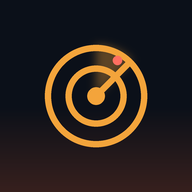
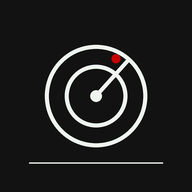
Add files via upload

Changed region(s): [[0.2188, 0.2188, 0.7812, 0.7812], [0.0, 0.8125, 1.0, 1.0]]

diff --git a/index.html b/index.html
@@ -4,7 +4,7 @@
 <meta charset="utf-8">
 <meta name="viewport" content="width=device-width, initial-scale=1, viewport-fit=cover">
 <title>Shoot Radar</title>
-<meta name="theme-color" content="#0b1019">
+<meta name="theme-color" content="#121212">
 <link rel="manifest" href="manifest.webmanifest">
 <link rel="apple-touch-icon" href="icons/apple-touch-icon.png">
 <link rel="icon" type="image/png" sizes="192x192" href="icons/icon-192.png">
@@ -14,23 +14,28 @@
 <meta name="apple-mobile-web-app-status-bar-style" content="black-translucent">
 <meta name="format-detection" content="telephone=no">
 <link rel="preconnect" href="https://fonts.googleapis.com">
-<link rel="stylesheet" href="https://fonts.googleapis.com/css2?family=Bricolage+Grotesque:opsz,wght@12..96,500;12..96,700&family=Instrument+Sans:wght@400;500;600&family=JetBrains+Mono:wght@400;600&display=swap">
+<link rel="stylesheet" href="https://fonts.googleapis.com/css2?family=Inter:wght@300;400;500;600&family=Anonymous+Pro:wght@400;700&display=swap">
 <style>
-/* Layout: one column (desktop) or four tabs (phone / installed app) on a night-sky ground; dialogs for editing. */
+/* Theme: matches tysonwaldron.com. Photo-led, near-black #121212 ground, pale green-white #EFF5EF type,
+   Inter at regular weight, grey pill buttons, 10px image corners, brand red #C70000 for the strongest scores.
+   Layout: one column (desktop) or four tabs (phone / installed app); dialogs for editing. */
 :root {
-  --bg: #0b1019; --surface: #121a27; --surface-2: #1a2434; --line: #243045;
-  --ink: #e9edf4; --muted: #8d99ad; --accent: #f3a43b; --accent-ink: #1b1204;
-  --hot: #ff6f61; --good: #f3a43b; --maybe: #6f8fc9; --low: #3a465b; --ok: #4fc29b; --bad: #ff6f61;
-  --display: 'Bricolage Grotesque', 'Segoe UI', system-ui, sans-serif;
-  --body: 'Instrument Sans', system-ui, -apple-system, 'Segoe UI', sans-serif;
-  --mono: 'JetBrains Mono', ui-monospace, 'SF Mono', Menlo, monospace;
+  --bg: #121212; --surface: #1a1a1a; --surface-2: #242524; --line: #2e302e;
+  --ink: #eff5ef; --muted: #9da59d; --accent: #eff5ef; --accent-ink: #061406;
+  --pill: #ababab; --pill-ink: #061406;
+  --hot: #c70000; --good: #d6a24a; --maybe: #5f6f80; --low: #2c2e2c; --ok: #7fc79a; --bad: #ff5a4f;
+  --hdr: #121212; --hdr-ink: #eff5ef;
+  --display: 'Inter', -apple-system, 'Segoe UI', system-ui, sans-serif;
+  --body: 'Inter', -apple-system, 'Segoe UI', system-ui, sans-serif;
+  --mono: 'Anonymous Pro', ui-monospace, 'SF Mono', Menlo, monospace;
   color-scheme: dark;
 }
 @media (prefers-color-scheme: light) {
   :root:not([data-theme="dark"]) {
-    --bg: #f3f5f8; --surface: #ffffff; --surface-2: #eef1f6; --line: #d9dfe8;
-    --ink: #121923; --muted: #5b6678; --accent: #c87a12; --accent-ink: #ffffff;
-    --hot: #d94a3d; --good: #c87a12; --maybe: #4767a6; --low: #c3cbd8; --ok: #1f8f6a; --bad: #d94a3d; color-scheme: light;
+    --bg: #ffffff; --surface: #f5f7f5; --surface-2: #eaeeea; --line: #dde3dd;
+    --ink: #061406; --muted: #5a645a; --accent: #061406; --accent-ink: #ffffff;
+    --pill: #ababab; --pill-ink: #061406;
+    --hot: #c70000; --good: #b07a1c; --maybe: #56677a; --low: #dfe4df; --ok: #2f7d4f; --bad: #c70000; color-scheme: light;
   }
 }
 * { box-sizing: border-box; }
@@ -224,7 +229,7 @@ body.tabbed .savebar { bottom: calc(60px + env(safe-area-inset-bottom, 0px)); pa
 body.tabbed .toast { bottom: calc(140px + env(safe-area-inset-bottom, 0px)); }
 body.tabbed .stamp { order: 3; width: 100%; }
 @media (display-mode: standalone) and (prefers-color-scheme: light) {
-  header.top::before { content: ''; position: absolute; left: 0; right: 0; top: 0; height: env(safe-area-inset-top, 0px); background: #0b1019; }
+  header.top::before { content: ''; position: absolute; left: 0; right: 0; top: 0; height: env(safe-area-inset-top, 0px); background: var(--hdr); }
   header.top { position: sticky; }
 }
 @media (display-mode: standalone) { body { overscroll-behavior-y: none; } }
@@ -249,6 +254,62 @@ body.tabbed .stamp { order: 3; width: 100%; }
   .stamp { width: 100%; order: 3; }
 }
 @media (prefers-reduced-motion: reduce) { * { transition: none !important; } }
+/* ---------- tysonwaldron.com theme ---------- */
+body { font: 400 15px/1.55 var(--body); letter-spacing: -0.005em; }
+header.top { background: var(--hdr); color: var(--hdr-ink); border-bottom-color: rgba(239, 245, 239, .08); backdrop-filter: none; }
+header.top button { color: var(--hdr-ink); border-color: rgba(239, 245, 239, .22); background: transparent; }
+header.top .stamp { color: rgba(239, 245, 239, .62); }
+.brand { gap: 12px; font: 400 13px var(--body); }
+.brand .sig { height: 34px; width: auto; display: block; }
+.brand .app-name { text-transform: uppercase; letter-spacing: .28em; font-size: 11px; color: rgba(239, 245, 239, .7); padding-left: 12px; border-left: 1px solid rgba(239, 245, 239, .25); }
+.progress { background: var(--hdr-ink); }
+h2 { font: 400 26px/1.15 var(--display); letter-spacing: -0.02em; }
+.sec-head p, .note { font-size: 13.5px; }
+button, .btn { font: 400 14px var(--body); border-radius: 37px; padding: 9px 18px; }
+button.primary { background: var(--pill); color: var(--pill-ink); border-color: var(--pill); }
+button.primary:hover { filter: brightness(1.08); }
+.score { font: 700 13px var(--mono); border-radius: 37px; padding: 3px 9px; }
+.s-good { color: #1a1206; }
+.alert, .locard, .logrow, .grid-scroll, details.fold, .step, .cond-row, .install { border-radius: 10px; }
+.alert .cond svg, .locard .ico-row svg, .detail-list svg, .cond-top svg, .logrow .thumb, button.cover-ph svg { color: var(--ink); }
+.alert .cond { font-weight: 500; }
+.alert .loc, .locard .name { font: 400 18px/1.3 var(--display); letter-spacing: -0.01em; }
+.alert .when, .stamp, .coords, .radar thead th { font-family: var(--mono); }
+.radar thead th { letter-spacing: .14em; }
+.chip { border-radius: 37px; }
+.pip { border-radius: 37px; padding: 2px 8px 2px 5px; }
+.pip.s-hot { background: color-mix(in srgb, var(--hot) 30%, transparent); }
+.cover, .alert .banner img, .photo-edit img, .radar .who img, .logrow img.thumb { border-radius: 10px; }
+.locard .cover { border-radius: 10px 10px 0 0; }
+.alert .banner img { border-radius: 0; }
+.switch input:checked + span { background: var(--ink); }
+.switch input:checked + span::after { background: var(--bg); }
+.tabbar button.active { color: var(--ink); }
+.tabbar button { color: color-mix(in srgb, var(--ink) 45%, transparent); font-weight: 500; letter-spacing: .02em; }
+.install { background: var(--surface); border-color: var(--line); }
+.eyebrow { text-transform: uppercase; letter-spacing: .28em; font-size: 12px; }
+details.fold > summary h2 { font-size: 22px; }
+.badge { font-family: var(--mono); font-weight: 700; border-radius: 37px; background: var(--hot); color: #fff; }
+.badge.muted { background: transparent; }
+.toast { border-radius: 37px; }
+/* hero: full-bleed photo like the homepage */
+.hero { position: relative; height: clamp(230px, 42vw, 380px); overflow: hidden; background: #121212; color: #eff5ef; }
+.hero img { position: absolute; inset: 0; width: 100%; height: 100%; max-width: none; object-fit: cover; object-position: center 60%; }
+.hero::after { content: ''; position: absolute; inset: 0; background: linear-gradient(to bottom, rgba(18, 18, 18, .15) 0%, rgba(18, 18, 18, .1) 40%, rgba(18, 18, 18, .85) 100%); }
+.hero-text { position: absolute; left: 0; right: 0; bottom: 0; z-index: 1; padding-block: 0 22px; display: grid; gap: 6px; }
+.hero-h { font: 300 clamp(28px, 6vw, 46px)/1.05 var(--display); letter-spacing: -0.03em; text-wrap: balance; }
+.hero-sub { font: 400 13px var(--mono); color: rgba(239, 245, 239, .8); letter-spacing: .02em; }
+.hero-sub { display: flex; flex-wrap: wrap; gap: 2px 14px; } .hero-sub span { white-space: nowrap; }
+body.tabbed .hero:not(.active) { display: none; }
+.hbtn svg { width: 17px; height: 17px; }
+@media (max-width: 600px) {
+  .brand .sig { height: 28px; } .brand .app-name { letter-spacing: .2em; font-size: 10px; padding-left: 10px; }
+  header .wrap { gap: 8px; padding-block: 10px; }
+  .hbtn { padding: 0; width: 40px; height: 40px; justify-content: center; }
+  .hbtn span { display: none; }
+  .stamp { width: 100%; order: 3; font-size: 11.5px; }
+  .hero-sub { font-size: 12px; }
+}
 </style>
 </head>
 <body>
@@ -269,19 +330,30 @@ body.tabbed .stamp { order: 3; width: 100%; }
     <symbol id="i-log" viewBox="0 0 24 24" fill="none" stroke="currentColor" stroke-width="1.8" stroke-linecap="round" stroke-linejoin="round"><rect x="4" y="3" width="16" height="18" rx="2.5"/><path d="M8 8h8M8 12h8M8 16h5"/></symbol>
     <symbol id="i-pin" viewBox="0 0 24 24" fill="none" stroke="currentColor" stroke-width="1.8" stroke-linecap="round" stroke-linejoin="round"><path d="M12 21s-6.5-5.6-6.5-11a6.5 6.5 0 0 1 13 0c0 5.4-6.5 11-6.5 11Z"/><circle cx="12" cy="10" r="2.4"/></symbol>
     <symbol id="i-today" viewBox="0 0 24 24" fill="none" stroke="currentColor" stroke-width="1.8" stroke-linecap="round" stroke-linejoin="round"><path d="M12 3v2M5.6 5.6l1.4 1.4M3 12h2M19 12h2M17 7l1.4-1.4"/><path d="M7.5 15a4.5 4.5 0 0 1 9 0"/><path d="M3 19h18"/></symbol>
+    <symbol id="i-refresh" viewBox="0 0 24 24" fill="none" stroke="currentColor" stroke-width="1.8" stroke-linecap="round" stroke-linejoin="round"><path d="M20 11a8 8 0 1 0-2.3 5.7"/><path d="M20 4v7h-7"/></symbol>
+    <symbol id="i-gear" viewBox="0 0 24 24" fill="none" stroke="currentColor" stroke-width="1.8" stroke-linecap="round" stroke-linejoin="round"><circle cx="12" cy="12" r="3"/><path d="M19.4 15a1.7 1.7 0 0 0 .3 1.8l.1.1a2 2 0 1 1-2.8 2.8l-.1-.1a1.7 1.7 0 0 0-1.8-.3 1.7 1.7 0 0 0-1 1.5V21a2 2 0 1 1-4 0v-.1a1.7 1.7 0 0 0-1.1-1.5 1.7 1.7 0 0 0-1.8.3l-.1.1a2 2 0 1 1-2.8-2.8l.1-.1a1.7 1.7 0 0 0 .3-1.8 1.7 1.7 0 0 0-1.5-1H3a2 2 0 1 1 0-4h.1a1.7 1.7 0 0 0 1.5-1.1 1.7 1.7 0 0 0-.3-1.8l-.1-.1a2 2 0 1 1 2.8-2.8l.1.1a1.7 1.7 0 0 0 1.8.3H9a1.7 1.7 0 0 0 1-1.5V3a2 2 0 1 1 4 0v.1a1.7 1.7 0 0 0 1 1.5 1.7 1.7 0 0 0 1.8-.3l.1-.1a2 2 0 1 1 2.8 2.8l-.1.1a1.7 1.7 0 0 0-.3 1.8V9a1.7 1.7 0 0 0 1.5 1H21a2 2 0 1 1 0 4h-.1a1.7 1.7 0 0 0-1.5 1Z"/></symbol>
     <symbol id="i-snow" viewBox="0 0 24 24" fill="none" stroke="currentColor" stroke-width="1.8" stroke-linecap="round"><path d="M12 2v20M3.3 7l17.4 10M3.3 17 20.7 7M9.5 3.5 12 6l2.5-2.5M9.5 20.5 12 18l2.5 2.5"/></symbol>
   </defs>
 </svg>
 
 <header class="top">
   <div class="wrap">
-    <div class="brand"><svg><use href="#i-logo"/></svg>Shoot Radar</div>
+    <div class="brand"><img src="https://tysonwaldron.com/cdn/shop/files/Tyson-Waldron_white_low-res.png?height=140&v=1763355808" alt="Tyson Waldron Photography" class="sig"><span class="app-name">Shoot Radar</span></div>
     <span class="stamp" id="stamp">Loading forecasts…</span>
-    <button id="refresh" class="ghost" type="button">Refresh</button>
-    <button id="openSettings" type="button">Settings</button>
+    <button id="refresh" class="ghost hbtn" type="button" aria-label="Refresh"><svg aria-hidden="true"><use href="#i-refresh"/></svg><span>Refresh</span></button>
+    <button id="openSettings" class="hbtn" type="button" aria-label="Settings"><svg aria-hidden="true"><use href="#i-gear"/></svg><span>Settings</span></button>
   </div>
   <div class="progress" id="progress"></div>
 </header>
+
+<section class="hero" data-panel="today" id="hero" aria-label="Today">
+  <img id="heroImg" alt="" src="https://tysonwaldron.com/cdn/shop/files/DSC_9749-Edit.jpg?v=1770781421&amp;width=1600">
+  <div class="hero-text wrap">
+    <div class="eyebrow" id="heroDate">Today</div>
+    <div class="hero-h" id="heroH">Checking the sky…</div>
+    <div class="hero-sub" id="heroSub"></div>
+  </div>
+</section>
 
 <main class="wrap">
   <div class="install" id="install" hidden>
@@ -440,6 +512,10 @@ body.tabbed .stamp { order: 3; width: 100%; }
         </div>
       </div>
       <div>
+        <h2 style="font-size:16px;margin-bottom:8px">Cover photo</h2>
+        <label class="f">Image link for the photo at the top of Today <input type="text" id="sHero" placeholder="Leave blank for the photo from tysonwaldron.com" autocomplete="off"></label>
+      </div>
+      <div>
         <h2 style="font-size:16px;margin-bottom:8px">Phone notifications</h2>
         <div class="conds">
           <p class="note" id="pStatus" style="margin:0"></p>
@@ -584,10 +660,15 @@ function markDirty() {
   $('savebar').hidden = !dirty();
 }
 
+const HERO_DEFAULT = 'https://tysonwaldron.com/cdn/shop/files/DSC_9749-Edit.jpg?v=1770781421&width=1600';
+function applyHero() { const src = config?.heroImage || HERO_DEFAULT; if ($('heroImg').getAttribute('src') !== src) $('heroImg').src = src; }
+$('heroImg').addEventListener('error', () => { $('heroImg').hidden = true; });
+$('heroImg').addEventListener('load', () => { $('heroImg').hidden = false; });
 async function init() {
   saved = normalise(await loadConfig());
   const draft = store.get('draft');
   config = draft ? normalise(draft) : structuredClone(saved);
+  applyHero();
   [history, ratingsDoc] = await Promise.all([loadData('history.json', { entries: [] }), loadData('ratings.json', { ratings: {}, tracked: [] })]);
   history.entries ||= []; ratingsDoc.ratings ||= {}; ratingsDoc.tracked ||= [];
   markDirty();
@@ -629,6 +710,23 @@ function renderAlerts() {
     : `<div class="empty">Nothing above your thresholds in the next ${s.hours} hours. The radar below shows near misses; lower a threshold on a location if you want to hear about them.</div>`;
   const ph = E.moonPhase(run.now);
   $('moonNote').textContent = `Moon tonight: ${E.moonPhaseName(run.now)}, ${Math.round(ph.illum * 100)}% lit`;
+  renderHero(alerts, ph);
+}
+// Sunrise/sunset for the first spot (or Melbourne), found by scanning the sun's altitude through the local day.
+function sunTimes(lat, lon, now) {
+  const p = E.localParts(now), start = now - ((p.h * 60 + p.min) * 60e3);
+  let prev = E.sunPos(start, lat, lon).alt, rise = null, set = null;
+  for (let t = start + 60e3; t < start + 86400e3; t += 60e3) { const a = E.sunPos(t, lat, lon).alt; if (prev < -0.833 && a >= -0.833) rise = t; if (prev > -0.833 && a <= -0.833) set = t; prev = a; }
+  return { rise, set };
+}
+function renderHero(alerts, ph) {
+  const now = run.now, soon = alerts.filter((e) => e.t - now < 36 * 3600e3);
+  const top = alerts.slice().sort((a, b) => b.score - a.score)[0];
+  $('heroDate').textContent = new Intl.DateTimeFormat('en-AU', { timeZone: E.TZ, weekday: 'long', day: 'numeric', month: 'long' }).format(now);
+  $('heroH').textContent = !alerts.length ? 'Quiet skies for now' : soon.length ? `${soon.length} shoot${soon.length > 1 ? 's' : ''} worth planning` : `Next up: ${E.CONDITIONS[top.key].label.toLowerCase()} ${E.fmtDay(top.t, now).toLowerCase()}`;
+  const l = config.locations.find((x) => x.enabled !== false) || { lat: -37.81, lon: 144.96 };
+  const st = sunTimes(l.lat, l.lon, now);
+  $('heroSub').innerHTML = [st.rise && `Sunrise ${E.fmtTime(st.rise)}`, st.set && `Sunset ${E.fmtTime(st.set)}`, `${E.moonPhaseName(now)} ${Math.round(ph.illum * 100)}%`].filter(Boolean).map((x) => `<span>${esc(x)}</span>`).join('');
 }
 
 function dayKeys() {
@@ -1010,7 +1108,7 @@ $('pTest').addEventListener('click', async () => {
 // ---------- settings
 $('openSettings').addEventListener('click', () => {
   const s = config.settings, g = gh();
-  $('sMorning').checked = s.morning; $('sEvening').checked = s.evening; $('sLive').checked = s.liveAurora; $('sQuiet').checked = s.quietDigest; $('sBolt').checked = s.liveLightning; $('sTune').checked = s.autoTune;
+  $('sMorning').checked = s.morning; $('sEvening').checked = s.evening; $('sLive').checked = s.liveAurora; $('sQuiet').checked = s.quietDigest; $('sBolt').checked = s.liveLightning; $('sTune').checked = s.autoTune; $('sHero').value = config.heroImage || '';
   $('sHours').value = s.hours; $('sMax').value = s.maxItems;
   $('gRepo').value = g.repo; $('gBranch').value = g.branch; $('gToken').value = g.token; $('pKeysShow').hidden = true;
   $('importBox').hidden = $('importRow').hidden = true;
@@ -1020,6 +1118,9 @@ $('sApply').addEventListener('click', async () => {
   const s = config.settings;
   Object.assign(s, { morning: $('sMorning').checked, evening: $('sEvening').checked, liveAurora: $('sLive').checked, quietDigest: $('sQuiet').checked, liveLightning: $('sBolt').checked, autoTune: $('sTune').checked,
     hours: Math.min(96, Math.max(12, +$('sHours').value || 72)), maxItems: Math.min(20, Math.max(1, +$('sMax').value || 8)) });
+  const hero = $('sHero').value.trim();
+  if (hero && /^https:\/\//.test(hero)) config.heroImage = hero; else delete config.heroImage;
+  applyHero();
   const before = JSON.stringify(gh());
   store.set('ghRepo', $('gRepo').value.trim().replace(/^https?:\/\/github\.com\//, '').replace(/\/$/, ''));
   store.set('ghBranch', $('gBranch').value.trim() || 'main'); store.set('ghToken', $('gToken').value.trim());

diff --git a/sw.js b/sw.js
@@ -1,6 +1,7 @@
 // Shoot Radar service worker: offline app shell, last-known forecasts, and push notifications.
-const VERSION = 'sr-v5';
+const VERSION = 'sr-v6';
 const SHELL = ['./', './index.html', './engine.js', './manifest.webmanifest', './icons/icon-192.png', './icons/apple-touch-icon.png', './icons/badge-96.png'];
+const IMAGE_HOSTS = ['tysonwaldron.com', 'www.tysonwaldron.com', 'fonts.googleapis.com', 'fonts.gstatic.com'];
 const DATA_HOSTS = ['api.open-meteo.com', 'marine-api.open-meteo.com', 'services.swpc.noaa.gov', 'geocoding-api.open-meteo.com'];
 
 self.addEventListener('install', (e) => {
@@ -16,7 +17,8 @@ async function networkFirst(req, cacheName, timeoutMs, markCached) {
   try {
     const ctl = new AbortController(); const timer = setTimeout(() => ctl.abort(), timeoutMs);
     const res = await fetch(req, { signal: ctl.signal }); clearTimeout(timer);
-    if (res.ok) {
+    if (res.type === 'opaque') cache.put(req, res.clone()); // cross-site images (no CORS): keep as-is
+    else if (res.ok) {
       const copy = res.clone(); const headers = new Headers(copy.headers); headers.set('x-sr-saved', String(Date.now()));
       cache.put(req, new Response(await copy.blob(), { status: copy.status, headers }));
     }
@@ -36,6 +38,8 @@ self.addEventListener('fetch', (e) => {
   if (url.origin === location.origin) {
     if (/\/(history|ratings|devices|state)\.json$/.test(url.pathname)) return; // always live
     e.respondWith(networkFirst(req, VERSION + '-shell', 6000, false));
+  } else if (IMAGE_HOSTS.includes(url.hostname)) {
+    e.respondWith(networkFirst(req, VERSION + '-img', 8000, false));
   } else if (DATA_HOSTS.includes(url.hostname)) {
     e.respondWith(networkFirst(req, VERSION + '-data', 12000, true));
   }
